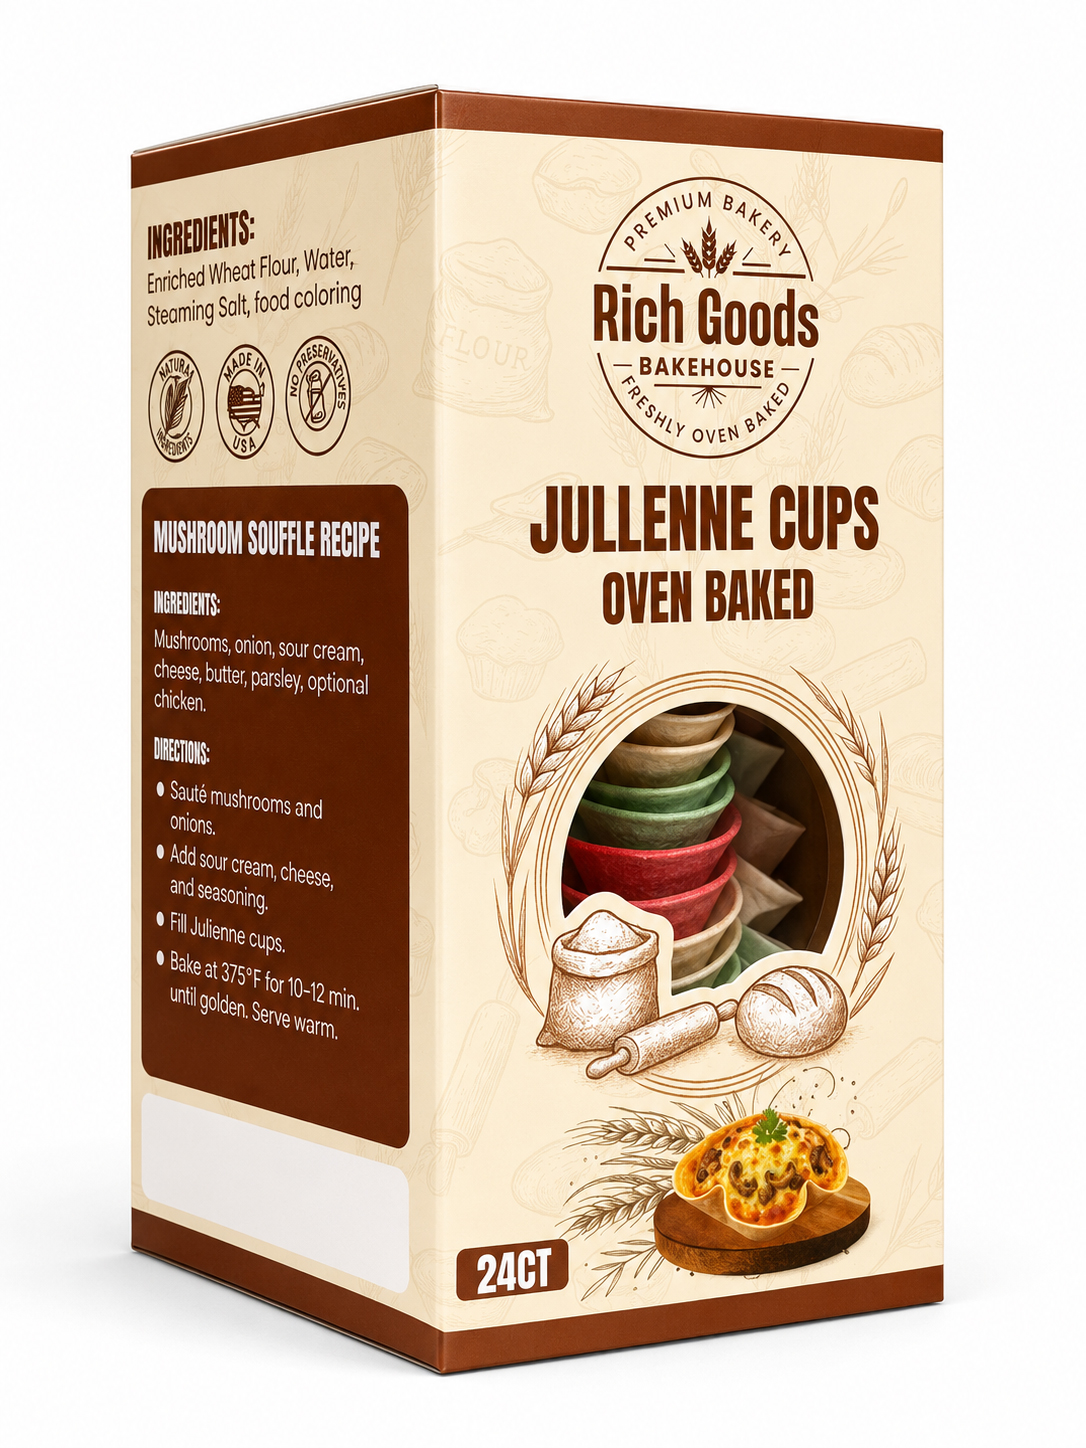
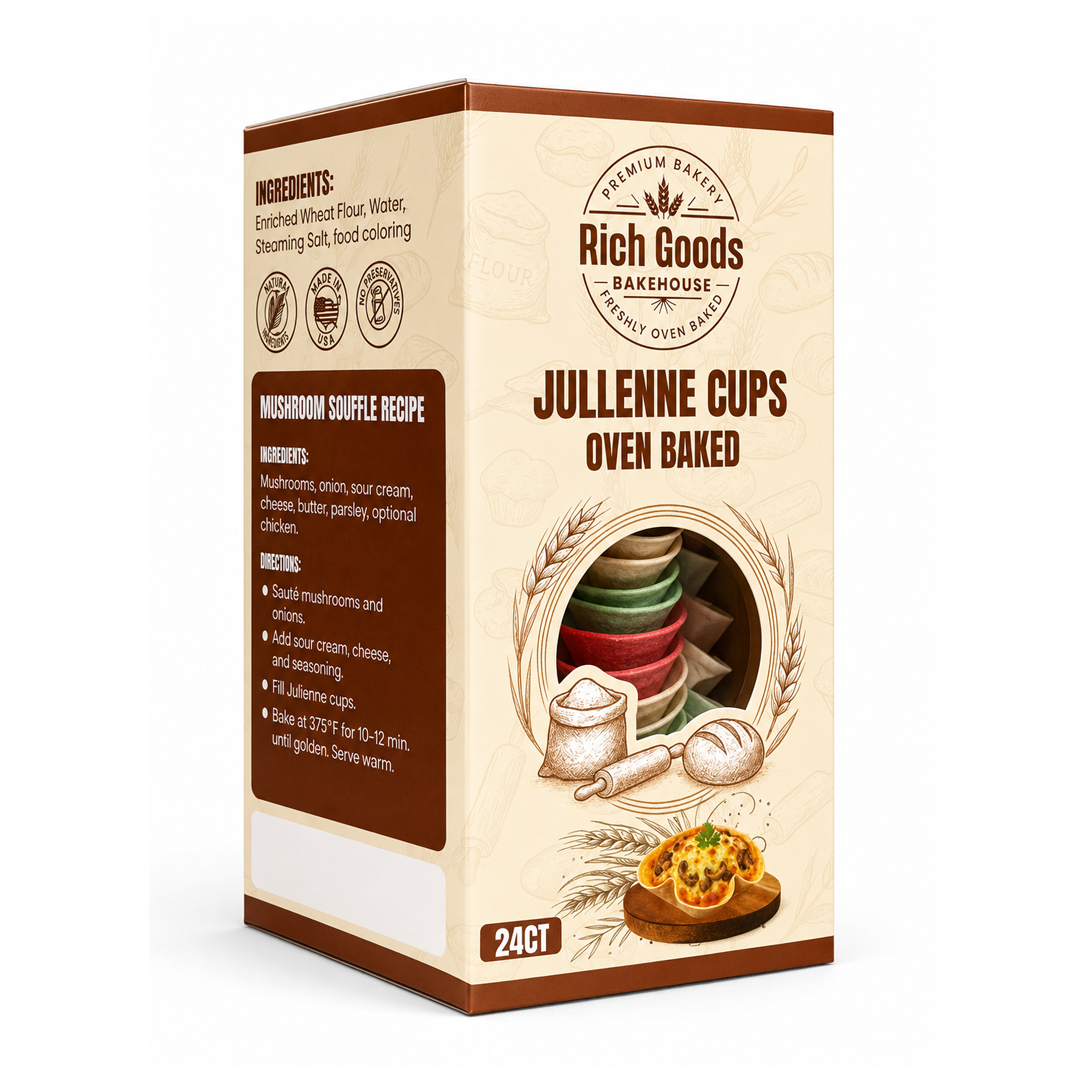
Update image assets and captions in index.html and site.js
- Swapped image sources in index.html for better representation of products.
- Updated gallery overlay text to reflect the correct number of additional photos.
- Added new image entries and captions in site.js for Margarita mix, Ani Preserves, and Peas & Tomato packaging.

diff --git a/index.html b/index.html
@@ -345,21 +345,21 @@
             </div>
             <div class="gallery-thumb">
               <img
-                src="images/food/belizimo-peppers.jpg"
-                alt="Belizimo peppers packaging"
+                src="images/food/margarita-mix.jpg"
+                alt="Margarita mix packaging"
                 loading="lazy"
                 decoding="async"
               />
             </div>
             <div class="gallery-thumb">
               <img
-                src="images/food/Golden-Harvest-organic-sunflower-oil.jpg"
-                alt="Golden Harvest organic sunflower oil"
+                src="images/food/belizimo-peppers.jpg"
+                alt="Belizimo peppers packaging"
                 loading="lazy"
                 decoding="async"
               />
-              <span class="gallery-more-overlay" aria-hidden="true">+2</span>
-              <span class="visually-hidden">Two more photos in this gallery</span>
+              <span class="gallery-more-overlay" aria-hidden="true">+5</span>
+              <span class="visually-hidden">Five more photos in this gallery</span>
             </div>
           </div>
           <div class="work-cat-label">CPG / Food &amp; Beverage</div>

diff --git a/js/site.js b/js/site.js
@@ -52,8 +52,16 @@
           caption: 'Indianos — Tequila gift set presentation',
         },
         {
+          src: 'images/food/margarita-mix.jpg',
+          caption: 'Margarita mix — Packaging',
+        },
+        {
           src: 'images/food/belizimo-peppers.jpg',
           caption: 'Belizimo — Peppers',
+        },
+        {
+          src: 'images/food/ani-preserves.jpg',
+          caption: 'Ani Preserves — Packaging',
         },
         {
           src: 'images/food/Golden-Harvest-organic-sunflower-oil.jpg',
@@ -62,6 +70,10 @@
         {
           src: 'images/food/Whole-green-olives-in-brine-jar.jpg',
           caption: 'Whole green olives in brine — Jar',
+        },
+        {
+          src: 'images/food/peas-n-tomato.jpg',
+          caption: 'Peas & tomato — Packaging',
         },
         {
           src: 'images/food/Wafer-rolls-with-hazelnut-and-cocoa.jpg',